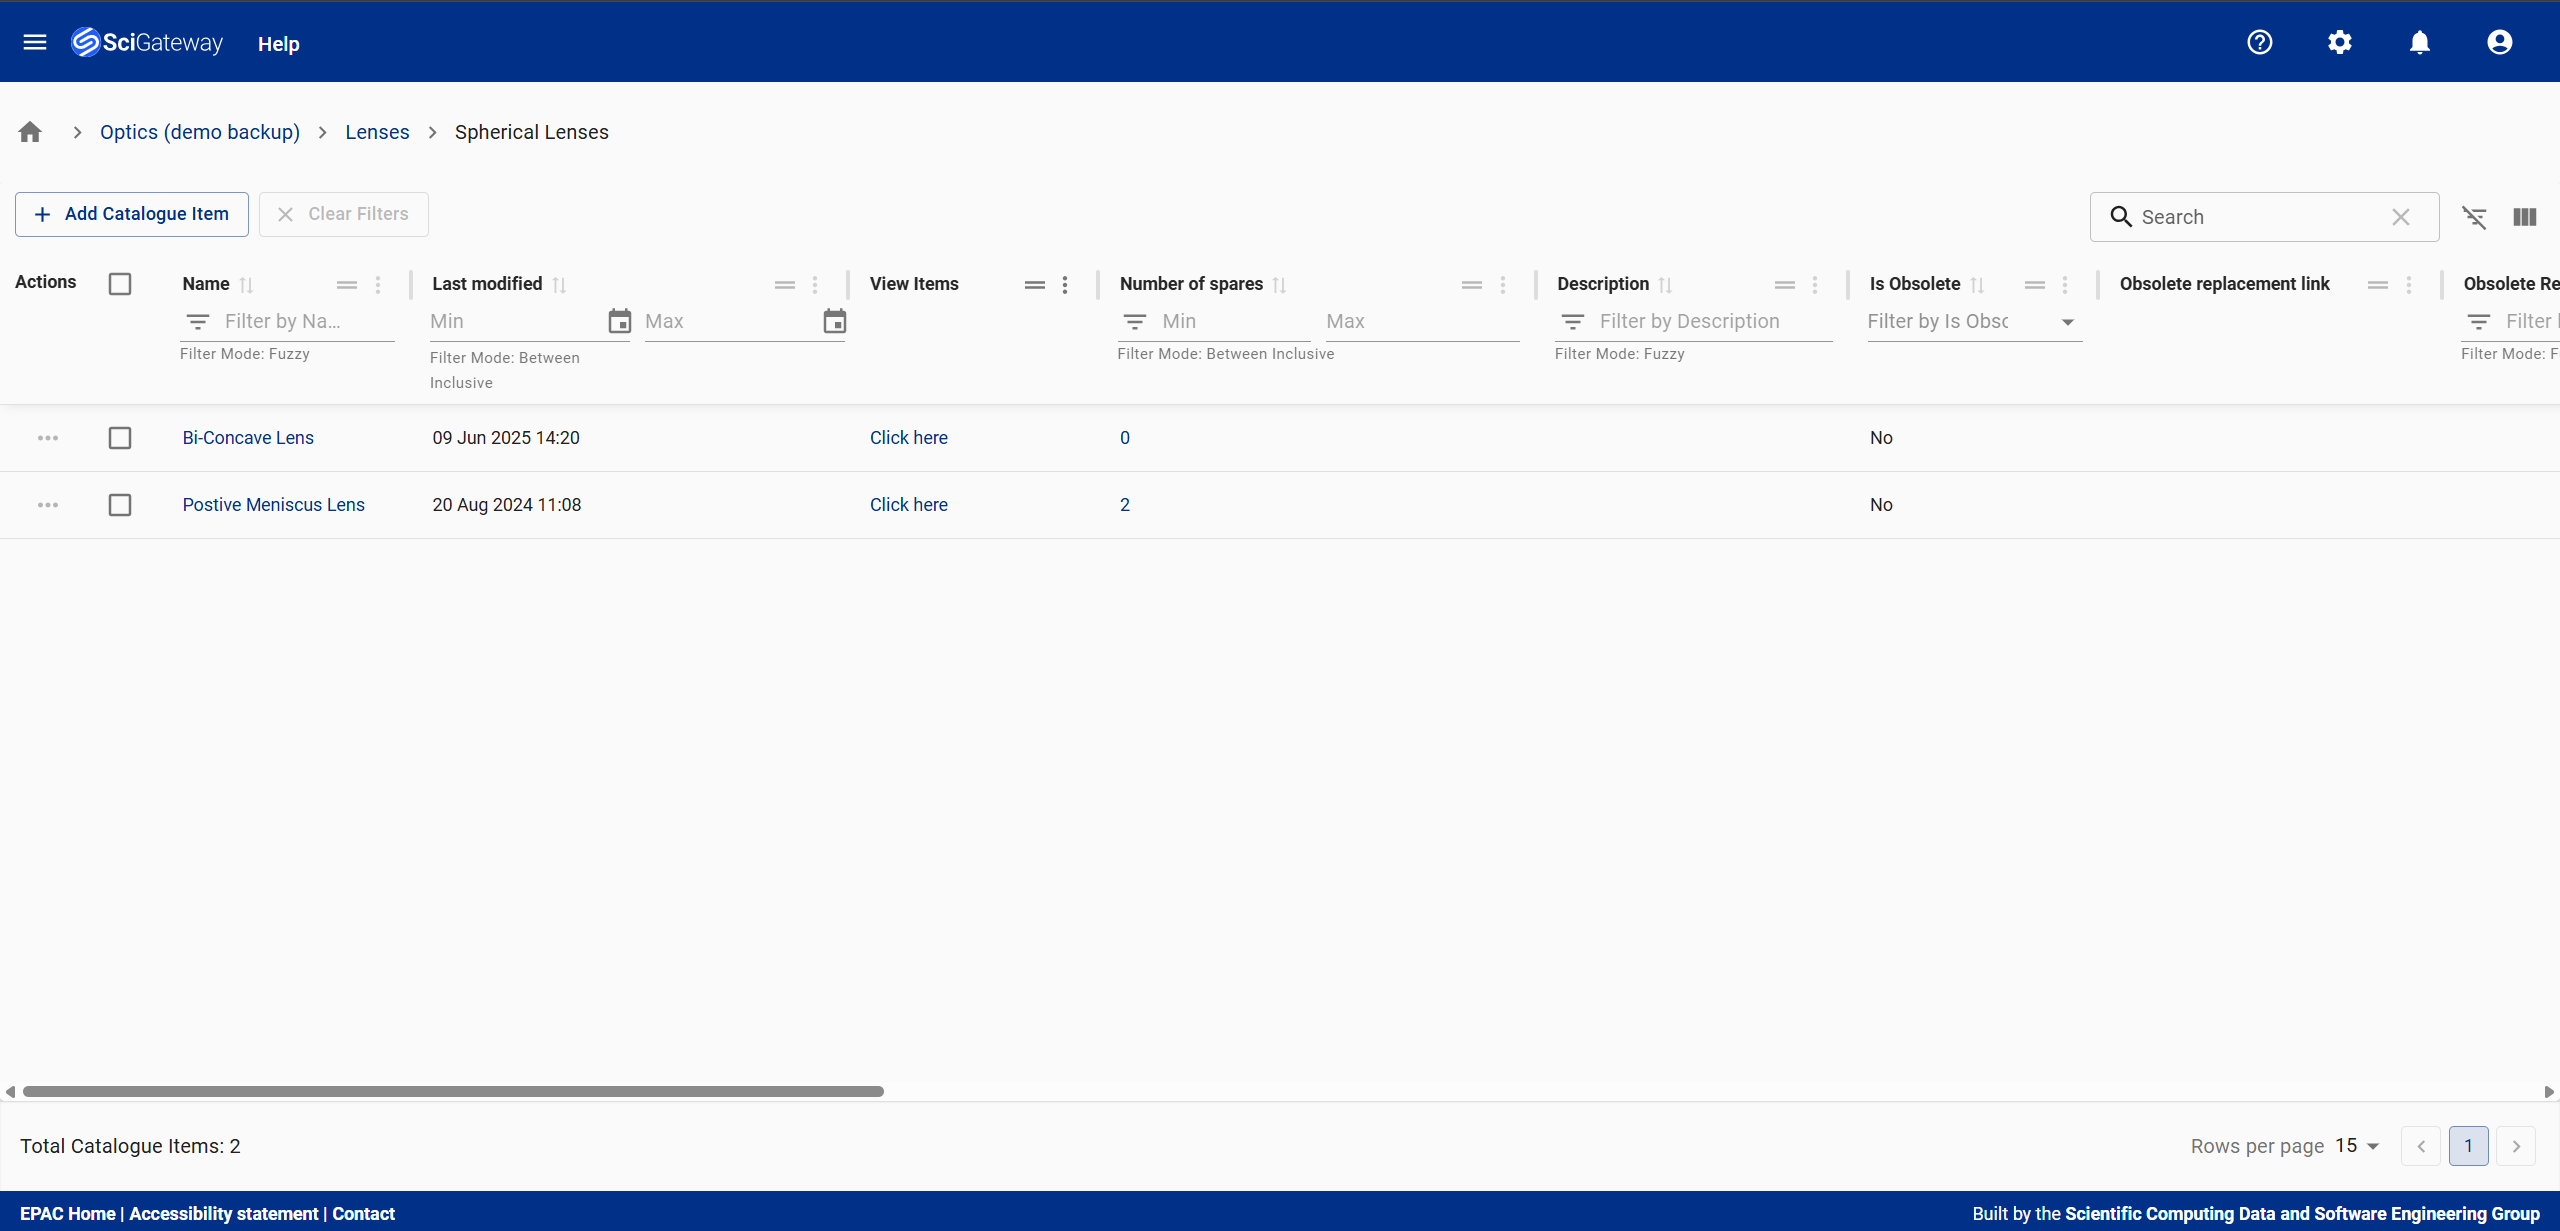
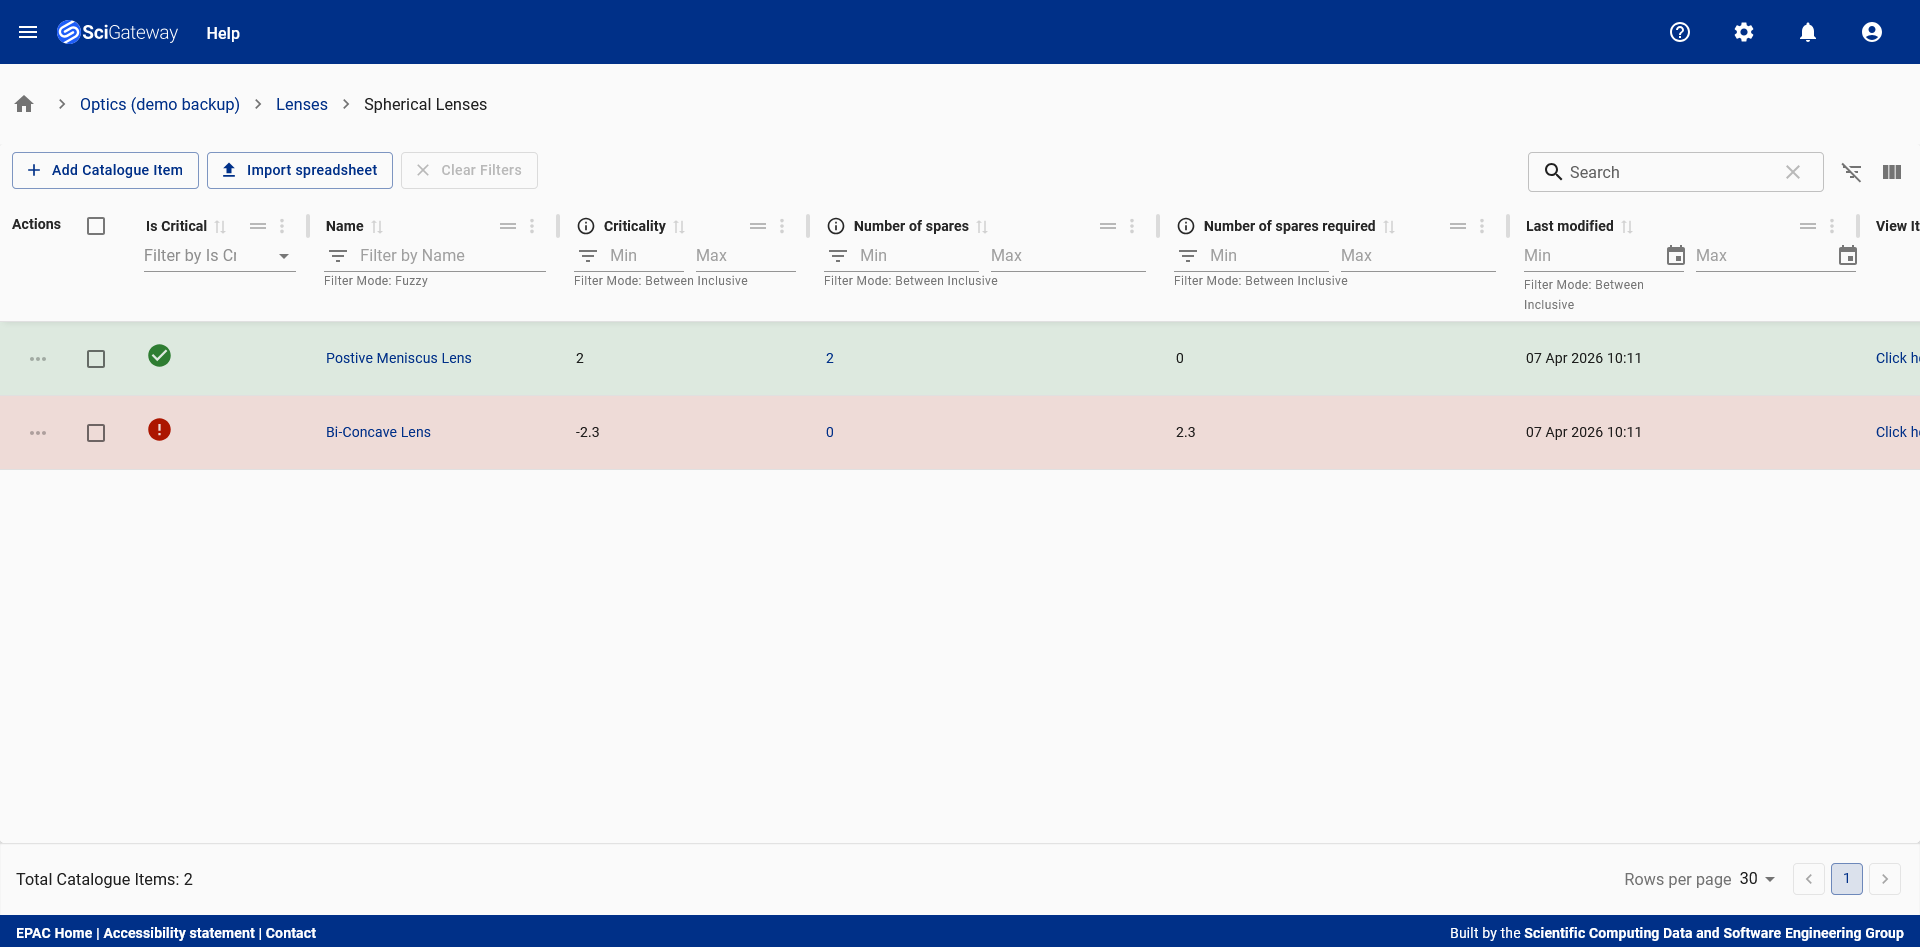
update project with v4 and v5 content

diff --git a/src/app/page.tsx b/src/app/page.tsx
@@ -330,6 +330,24 @@ export default function Home() {
                 <ListItemText
                   primary={
                     <Typography variant="body1">
+                      <Bold>
+                        Bulk import of catalogue items via spreadsheet
+                      </Bold>{' '}
+                      using a downloadable template with built-in validation.
+                      Uploaded spreadsheets are automatically validated before
+                      import to ensure data quality and consistency.
+                    </Typography>
+                  }
+                />
+              </ListItem>
+
+              <ListItem disableGutters>
+                <ListItemIcon sx={{ minWidth: 28 }}>
+                  <CircleIcon sx={{ fontSize: 8 }} />
+                </ListItemIcon>
+                <ListItemText
+                  primary={
+                    <Typography variant="body1">
                       <Bold>Automated spare-part calculations</Bold> based on
                       current stock, location, and usage conditions.
                     </Typography>
@@ -346,11 +364,7 @@ export default function Home() {
                     <Typography variant="body1">
                       <Bold>Predictive spare insights</Bold> that estimate when
                       new parts should be ordered based on expected lifetime,
-                      time to replace, items in use, and current spare counts
-                      <Typography component="span" sx={{ ml: 0.25 }}>
-                        *
-                      </Typography>
-                      .
+                      time to replace, items in use, and current spare counts.
                     </Typography>
                   }
                 />
@@ -435,9 +449,26 @@ export default function Home() {
                     commercial representations of physical items, including
                     names, descriptions, lifecycle status, and procurement
                     details - supporting efficient planning, quoting, and
-                    inventory management. Here you can also view the number of{' '}
-                    <Bold>spare items</Bold>, a key indicator for when to
-                    purchase more inventory.
+                    inventory management. Colour-coded indicators help users
+                    quickly identify components that may require attention.{' '}
+                    <Bold>Criticality</Bold> (predictive spare-part insights),
+                    alongside the number of <Bold>spare items</Bold>, helps
+                    inform inventory purchasing decisions.
+                  </>
+                ),
+              },
+              {
+                src: '/inventory-management-system-project/catalogue-item-spreadsheet-import.png',
+                alt: 'Spreadsheet Import',
+                caption: (
+                  <>
+                    <Bold>Catalogue Items Spreadsheet Import:</Bold> Enables the
+                    bulk import of catalogue items using a downloadable template
+                    with built-in validation. Uploaded spreadsheets undergo a
+                    dedicated validation step, with any errors and warnings
+                    highlighted for review and correction. Only spreadsheets
+                    that successfully pass validation can proceed to the import
+                    stage.
                   </>
                 ),
               },
@@ -460,9 +491,12 @@ export default function Home() {
                   <>
                     <Bold>Subsystem Dashboard:</Bold> Offers a comprehensive
                     view of the &apos;100J Pump Laser (Demo Backup)&apos;
-                    subsystem, displaying its type, associated items, metadata,
-                    images, and attachments to support high-priority component
-                    tracking and lifecycle management.
+                    subsystem, displaying its type, importance, associated
+                    items, metadata, images, and attachments.{' '}
+                    <Bold>Criticality</Bold> (predictive spare-part insights) is
+                    represented through red error indicators and colour-coded
+                    highlighting, helping users quickly identify systems and
+                    components that may require attention.
                   </>
                 ),
               },
@@ -519,6 +553,20 @@ export default function Home() {
               <ListItemText
                 primary={
                   <Typography variant="body1">
+                    <Bold>Research Facilities</Bold> - Manage specialised parts
+                    for instruments, laboratories, and experimental
+                    infrastructure.
+                  </Typography>
+                }
+              />
+            </ListItem>
+            <ListItem disableGutters>
+              <ListItemIcon sx={{ minWidth: 28 }}>
+                <CircleIcon sx={{ fontSize: 8 }} />
+              </ListItemIcon>
+              <ListItemText
+                primary={
+                  <Typography variant="body1">
                     <Bold>Transportation & Logistics</Bold> - Manage parts for
                     vehicles, equipment, and infrastructure across depots and
                     distribution hubs.
@@ -553,20 +601,6 @@ export default function Home() {
                 }
               />
             </ListItem>
-            <ListItem disableGutters>
-              <ListItemIcon sx={{ minWidth: 28 }}>
-                <CircleIcon sx={{ fontSize: 8 }} />
-              </ListItemIcon>
-              <ListItemText
-                primary={
-                  <Typography variant="body1">
-                    <Bold>Research Facilities</Bold> - Manage specialised parts
-                    for instruments, laboratories, and experimental
-                    infrastructure.
-                  </Typography>
-                }
-              />
-            </ListItem>
           </List>
         </Box>
 
@@ -575,7 +609,11 @@ export default function Home() {
             The Software
           </Typography>
           <Typography variant="body1">
-            IMS is built using a modular microservice architecture:
+            IMS is built using a modular microservice architecture. The
+            repositories listed below form the core of the IMS platform and are
+            openly available. The complete solution also includes a number of
+            supporting services, integrations, and operational components that
+            are maintained in private repositories.
           </Typography>
           <List sx={{ pl: 3, mb: 2 }}>
             <ListItem disableGutters>
@@ -689,7 +727,7 @@ export default function Home() {
           {/* eslint-disable-next-line @next/next/no-img-element */}
           <img
             src="/inventory-management-system-project/ims-architecture-diagram.png"
-            alt="IMS Architecture Diagram"
+            alt="IMS Core Architecture Diagram"
             style={{
               width: '100%',
               maxWidth: 'lg',
@@ -703,7 +741,7 @@ export default function Home() {
             align="center"
             sx={{ mt: 1 }}
           >
-            IMS Architecture Diagram
+            IMS Core Architecture Diagram
           </Typography>
         </Box>
 
